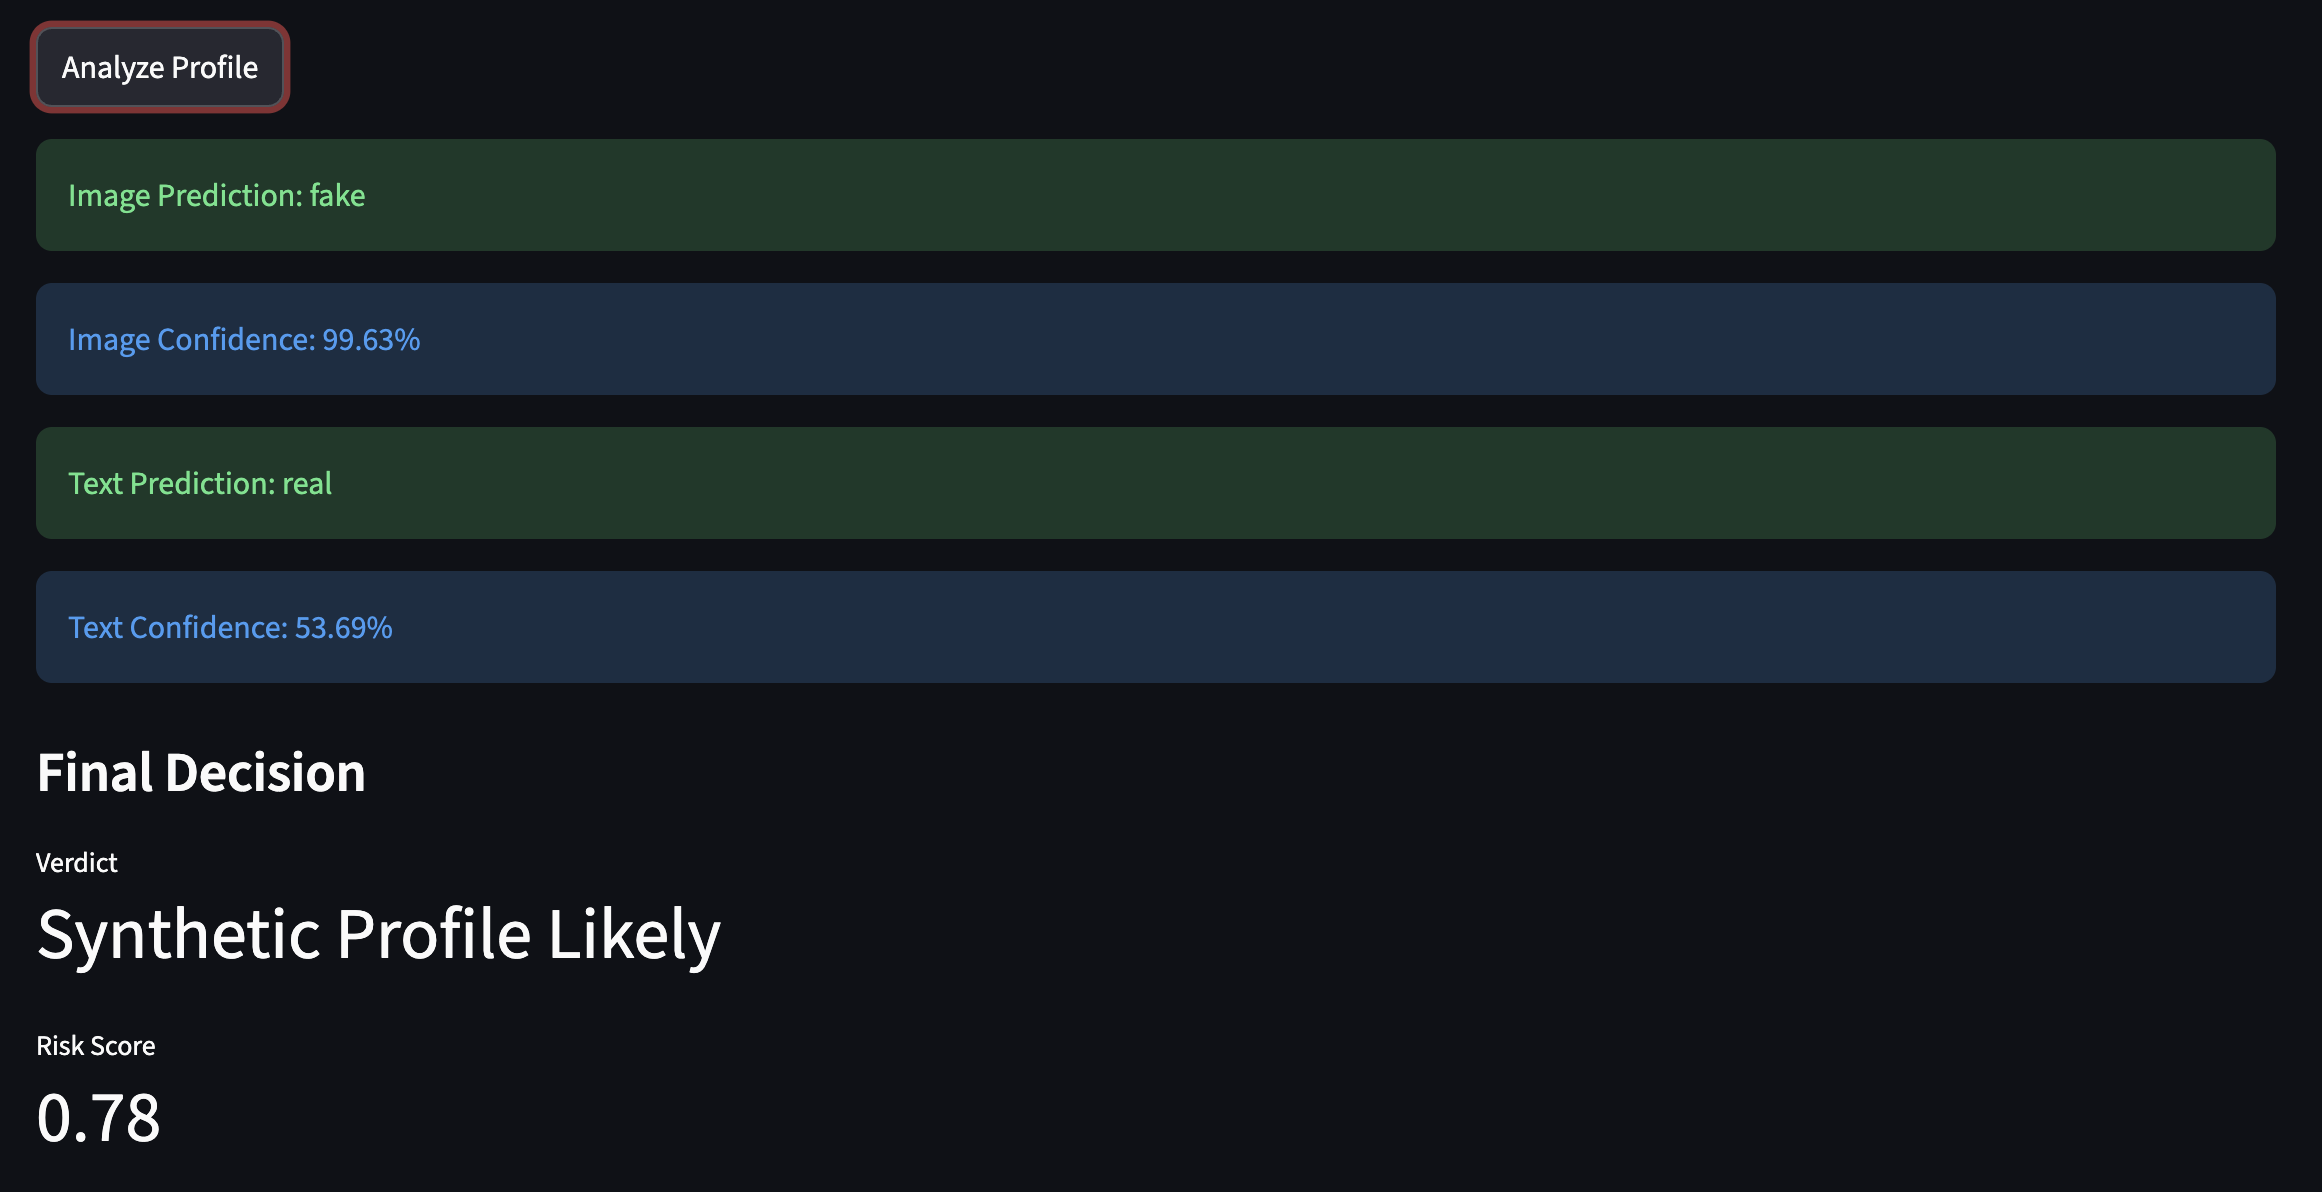
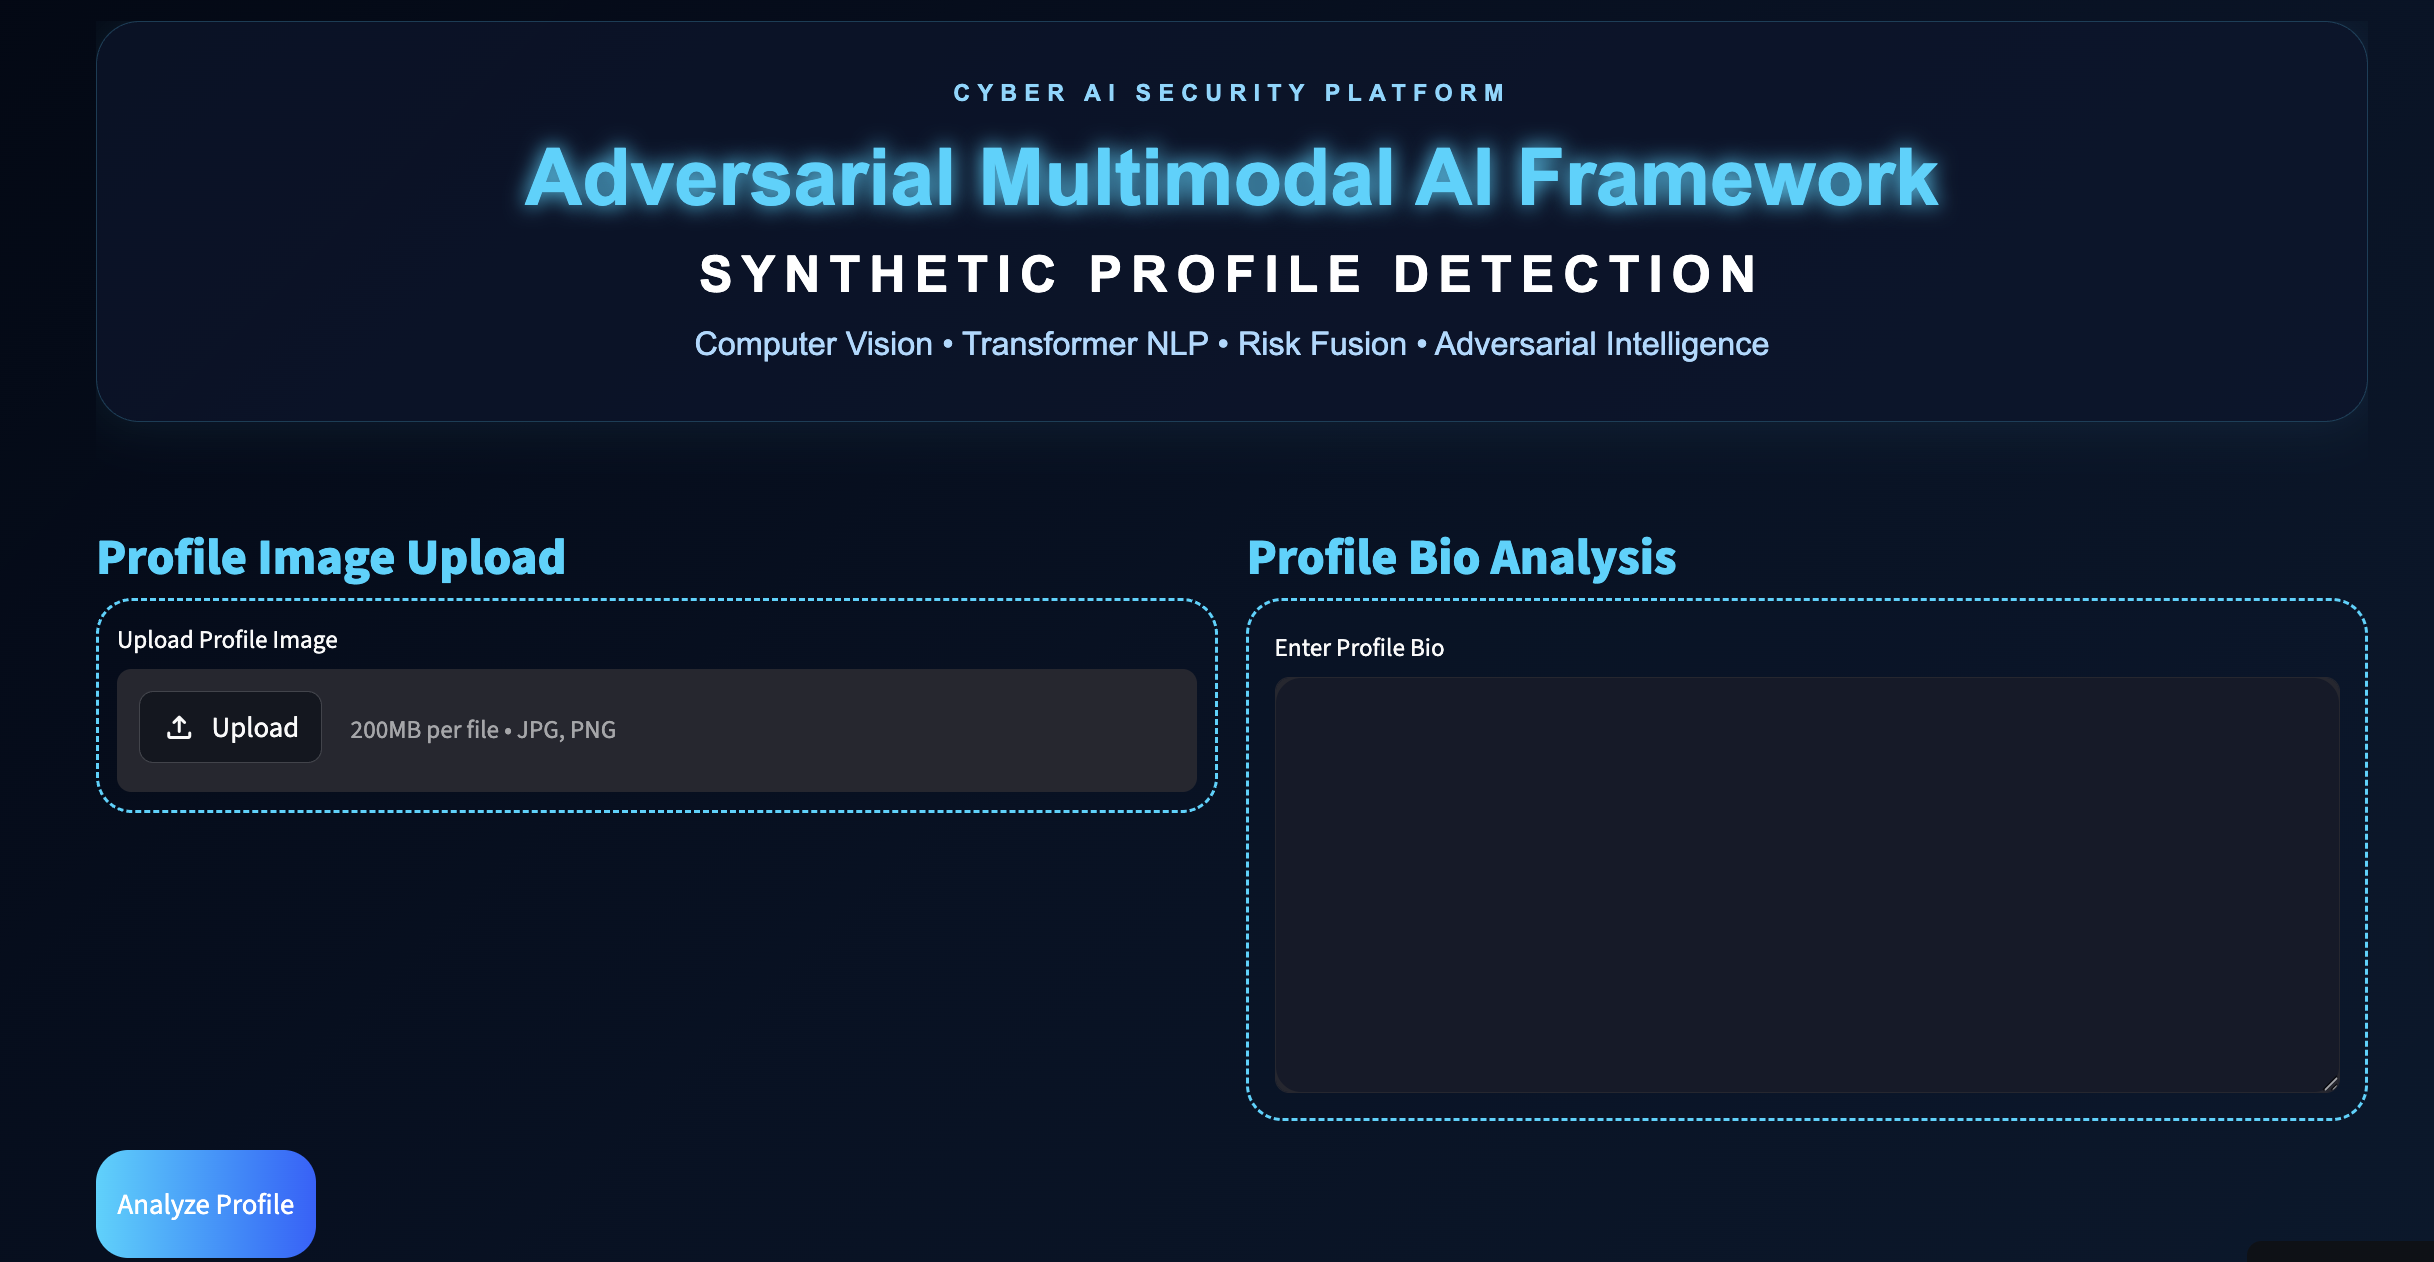
Update proj_4.jpg thumbnail and bump cache buster to v4

diff --git a/index.html b/index.html
@@ -410,7 +410,7 @@
         <div class="row d-flex">
           <div class="col-md-4 d-flex ftco-animate">
           	<div class="blog-entry justify-content-end">
-              <a href="https://github.com/divyanshrawat7/Adversarial-Multimodal-AI-Framework-for-Synthetic-Profile-Detection" class="block-20 zoom-effect" style="background-image: url('images/proj_4.jpg?v=3');">
+              <a href="https://github.com/divyanshrawat7/Adversarial-Multimodal-AI-Framework-for-Synthetic-Profile-Detection" class="block-20 zoom-effect" style="background-image: url('images/proj_4.jpg?v=4');">
               </a>
               <div class="text mt-3 float-right d-block">
 
